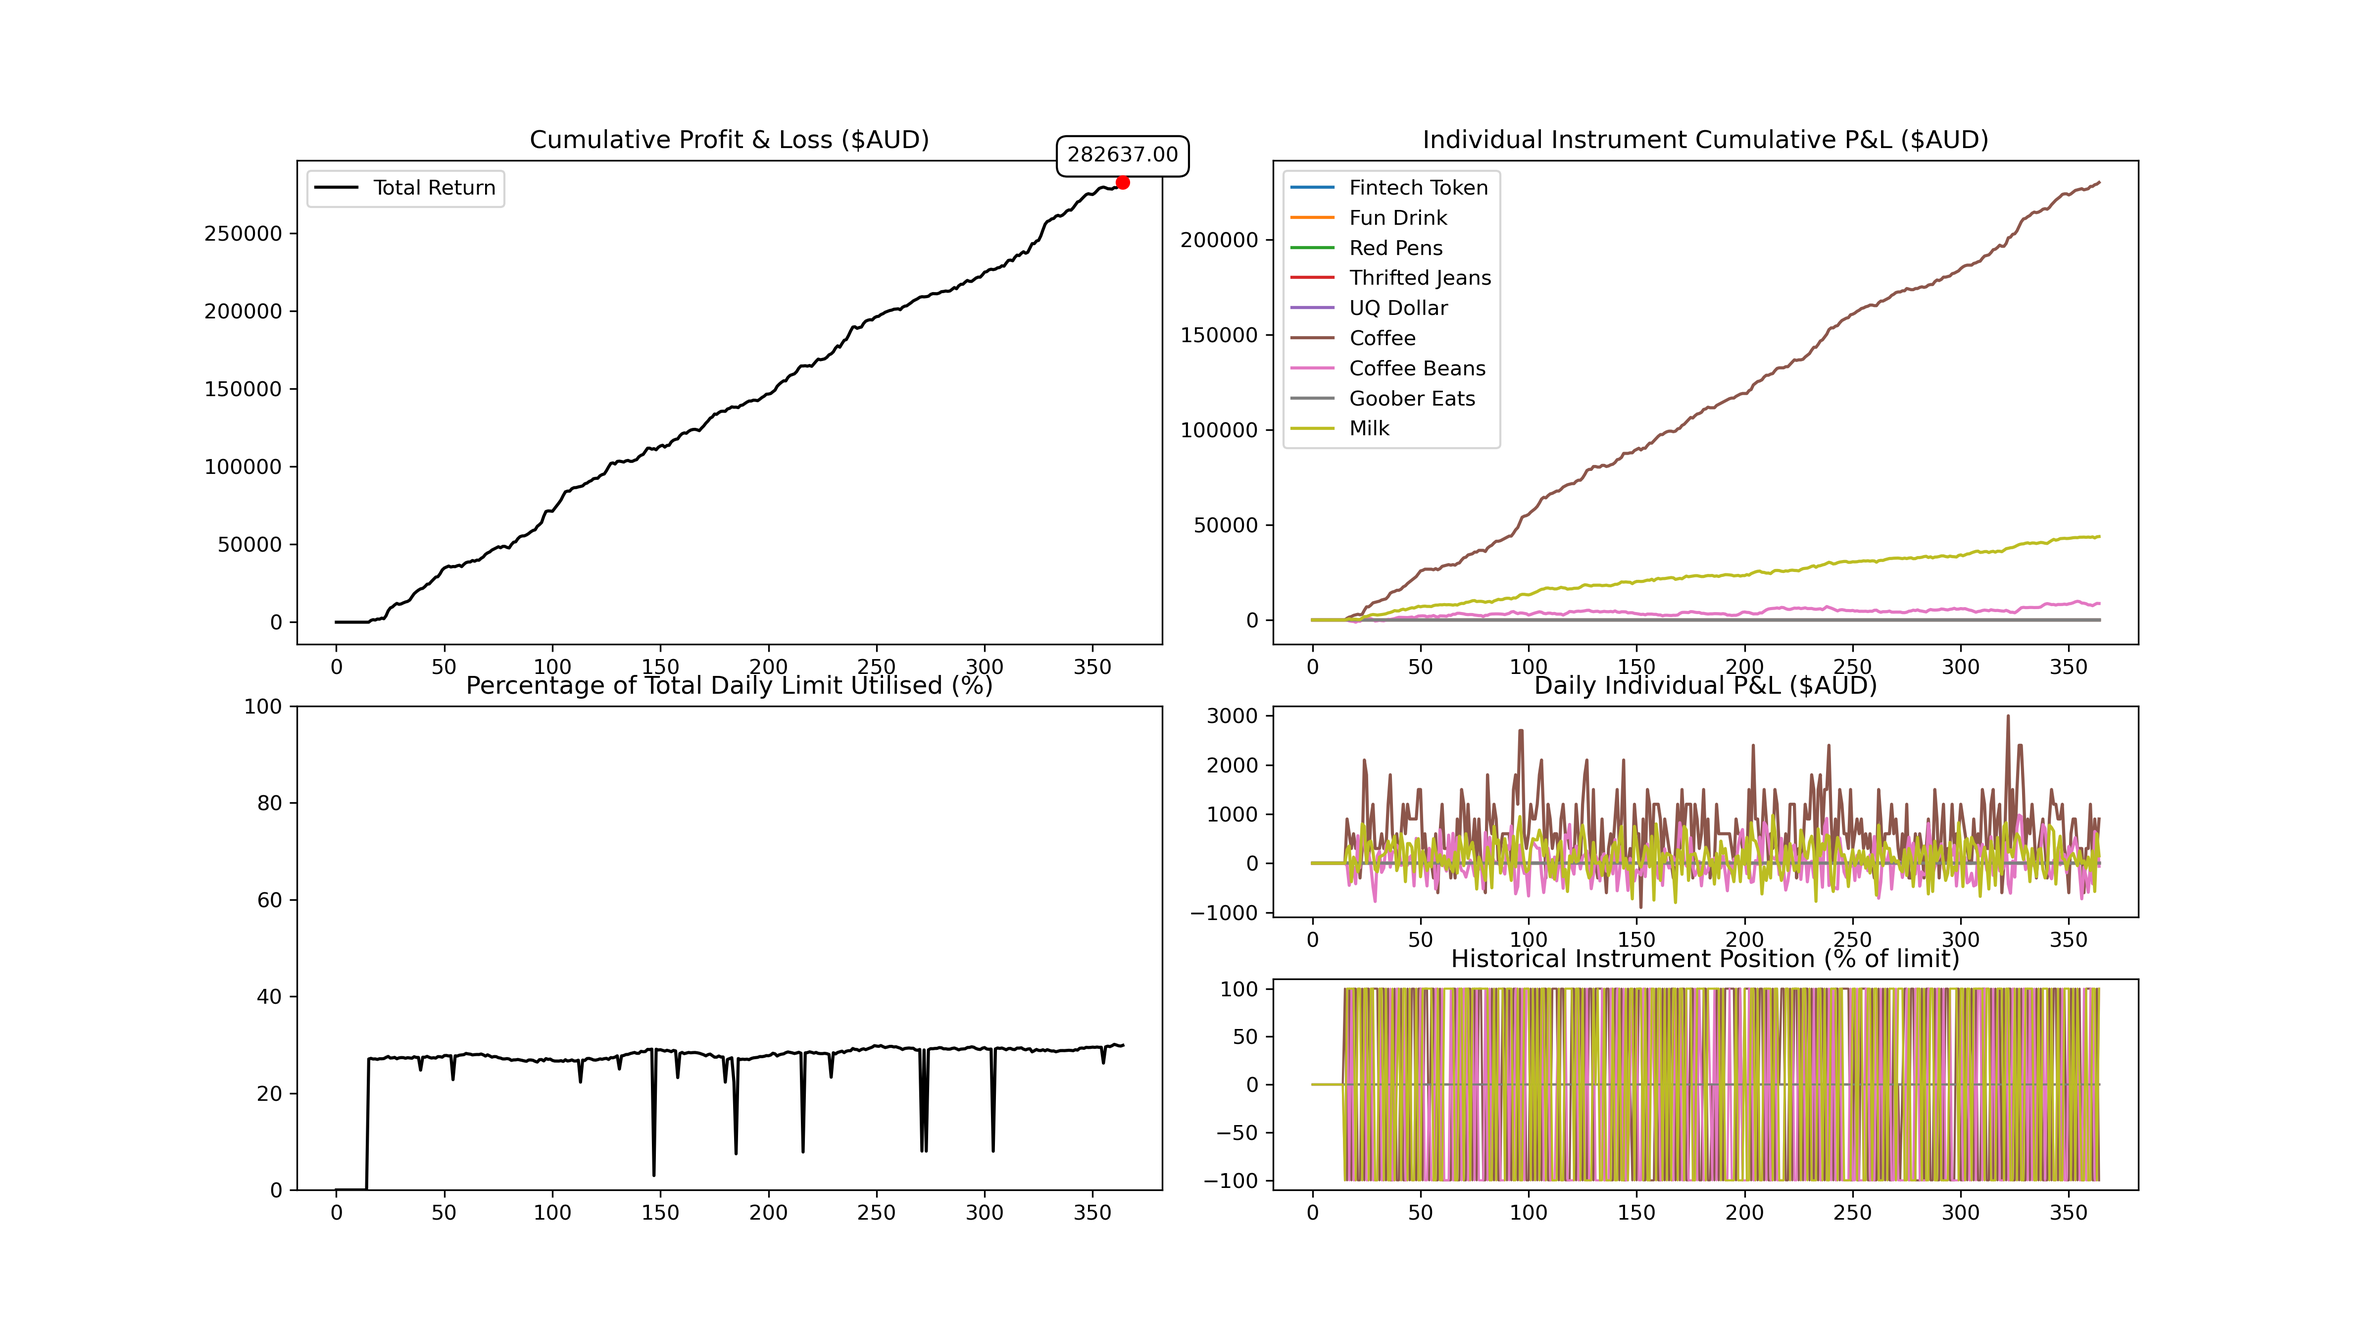
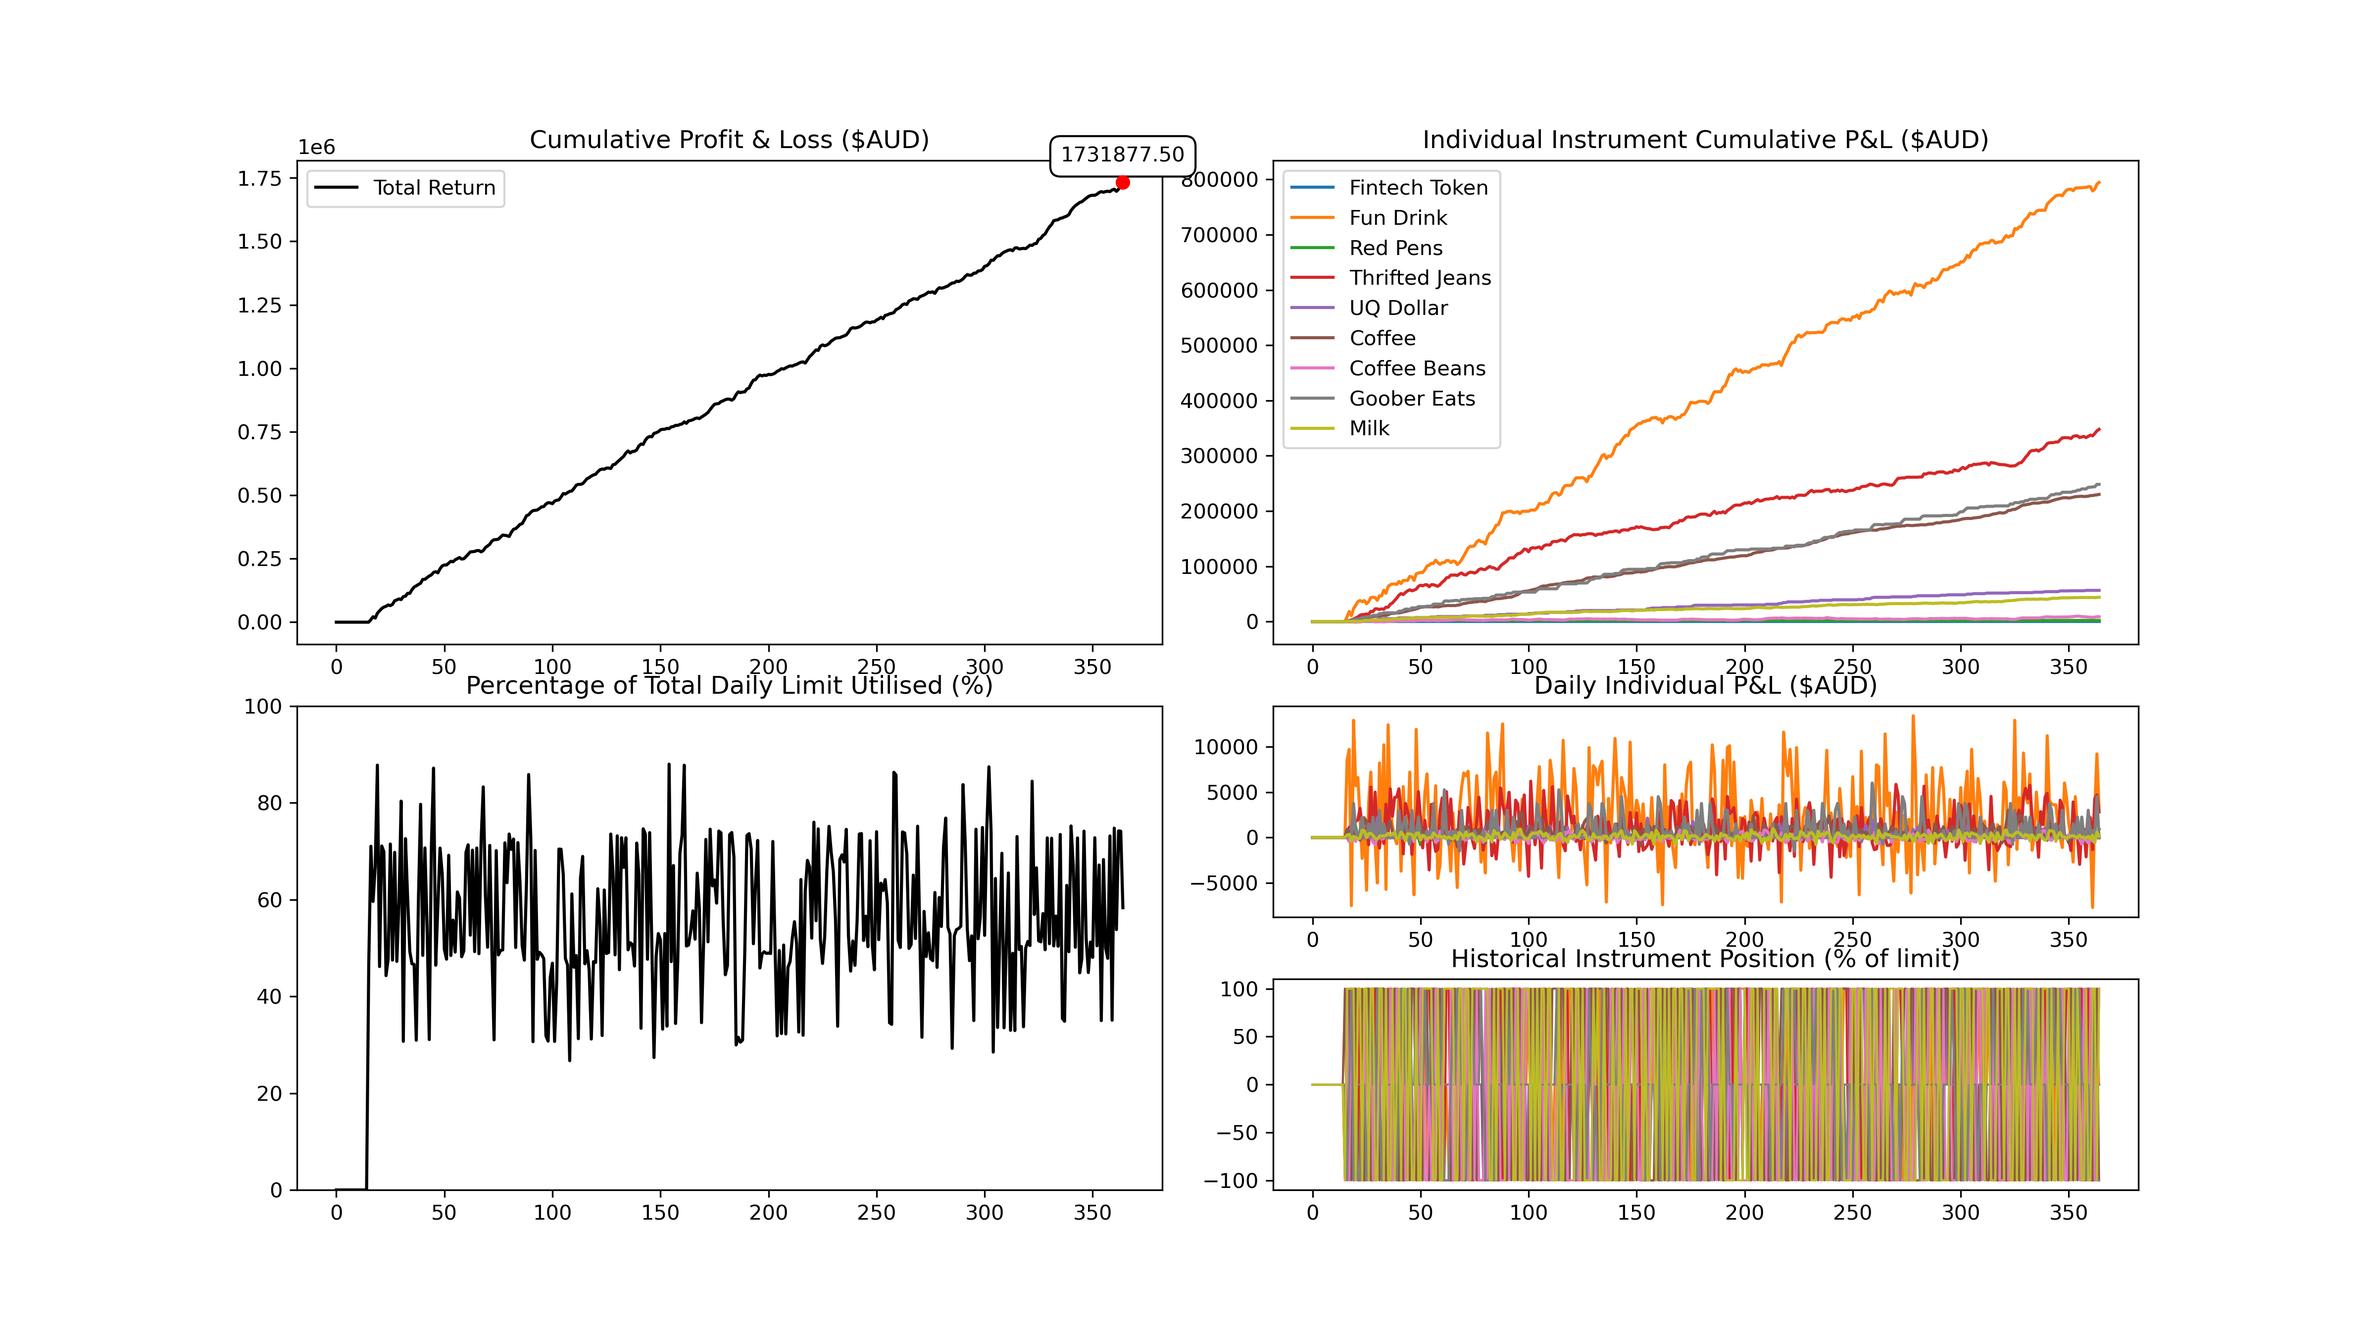
ARIMA ensemble implemented in Algorithm

diff --git a/algorithm.py b/algorithm.py
@@ -1,5 +1,5 @@
 import numpy as np
-from statsmodels.tsa.api import VAR
+from statsmodels.tsa.api import VAR, ARIMA
 from sklearn.preprocessing import StandardScaler
 import pandas as pd
 
@@ -12,7 +12,6 @@ class Algorithm():
     # FUNCTION TO SETUP ALGORITHM CLASS
     def __init__(self, positions):
         # Initialise data stores:
-        # Historical data of all instruments
         self.data = {}
         # Initialise position limits
         self.positionLimits = {}
@@ -29,91 +28,85 @@ class Algorithm():
         self.momentum_window = 5
         self.momentum_threshold = 0.02
 
-        
-        
-
     # Helper function to fetch the current price of an instrument
     def get_current_price(self, instrument):
-        # return most recent price
         return self.data[instrument][-1]
     ########################################################
 
     # HELPER METHODS
-    
-    
-    
+
+    # VAR model for Coffee Beans, Milk, Coffee
+    def apply_var_model(self, var_instruments, positionLimits, desiredPositions):
+        if self.day >= self.lookback:
+            var_data = np.array([self.data[inst] for inst in var_instruments if inst in self.data]).T
+            if len(var_data) > self.lookback:
+                diff_data = np.diff(var_data, axis=0) / var_data[:-1]
+                scaled_data = self.scaler.fit_transform(diff_data)
+
+                if self.var_model is None:
+                    self.var_model = VAR(scaled_data)
+
+                results = self.var_model.fit(self.lag_order)
+                forecast = results.forecast(scaled_data[-1:], steps=1)[0]
+
+                for i, instrument in enumerate(var_instruments):
+                    if instrument in positionLimits:
+                        if forecast[i] > self.threshold:
+                            desiredPositions[instrument] = positionLimits[instrument]  # Buy
+                        elif forecast[i] < -self.threshold:
+                            desiredPositions[instrument] = -positionLimits[instrument]  # Sell
+
+    # ARIMA model for trend-based instruments
+    def apply_arima_model(self, instrument, positionLimits, desiredPositions, p=1, d=1, q=1):
+        if self.day >= self.lookback:
+            data = np.array(self.data[instrument])
+            model = ARIMA(data, order=(p, d, q))
+            model_fit = model.fit()
+            forecast = model_fit.forecast(steps=1)[0]
+
+            current_price = self.get_current_price(instrument)
+            if forecast > current_price * (1 + self.threshold):
+                desiredPositions[instrument] = positionLimits[instrument]  # Buy
+            elif forecast < current_price * (1 - self.threshold):
+                desiredPositions[instrument] = -positionLimits[instrument]  # Sell
+
     # RETURN DESIRED POSITIONS IN DICT FORM
     def get_positions(self):
         # Get current position
         currentPositions = self.positions
         # Get position limits
         positionLimits = self.positionLimits
-        
+
         # Declare a store for desired positions
         desiredPositions = {}
-        # Loop through all the instruments you can take positions on.
+        # Initialise to hold positions for all instruments
         for instrument, positionLimit in positionLimits.items():
-            # For each instrument initilise desired position to zero
             desiredPositions[instrument] = 0
 
-        # IMPLEMENT CODE HERE TO DECIDE WHAT POSITIONS YOU WANT 
-        #######################################################################
-        # Buy thrifted jeans maximum amount
-        #desiredPositions["Thrifted Jeans"] = positionLimits["Thrifted Jeans"]
-        
-        # Coffee Milk and Beans VAR model
-        if self.day >= self.lookback:
-            var_data = np.array([self.data[inst] for inst in self.var_instruments if inst in self.data]).T
-            if len(var_data) > self.lookback:
-                diff_data = np.diff(var_data, axis=0) / var_data[:-1]
-                scaled_data = self.scaler.fit_transform(diff_data)
-                
-                if self.var_model is None:
-                    self.var_model = VAR(scaled_data)
-                
-                results = self.var_model.fit(self.lag_order)
-                forecast = results.forecast(scaled_data[-1:], steps=1)[0]
-                
-                for i, instrument in enumerate(self.var_instruments):
-                    if instrument in positionLimits:
-                        if forecast[i] > self.threshold:
-                            desiredPositions[instrument] = positionLimits[instrument]  # Buy
-                        elif forecast[i] < -self.threshold:
-                            desiredPositions[instrument] = -positionLimits[instrument]  # Sell
-        
-        #######################################################################
-        # Other strategies
-        # desiredPositions["UQ Dollar"] = self.get_uq_dollar_position(currentPositions["UQ Dollar"], positionLimits["UQ Dollar"])
-        
-        # desiredPositions["Thrifted Jeans"] = positionLimits["Thrifted Jeans"]
-        # jeans_df = pd.DataFrame(self.data["Thrifted Jeans"])
-        # jeans_df['EMA5'] = jeans_df[0].ewm(span=4, adjust=False).mean()
-        # # Buy if the price is above the 5 day EMA
-        # price = self.data['Thrifted Jeans'][-1]
-        # ema = jeans_df['EMA5'].iloc[-1]
-        # if price > ema:
-        #     desiredPositions["Thrifted Jeans"] = -positionLimits["Thrifted Jeans"]
-        # else:
-        #     desiredPositions["Thrifted Jeans"] = positionLimits["Thrifted Jeans"]
+        # Apply VAR Model for Coffee Beans, Milk, Coffee
+        self.apply_var_model(self.var_instruments, positionLimits, desiredPositions)
 
-        # desiredPositions["Red Pens"] = self.get_red_pens_position(currentPositions["Red Pens"], positionLimits["Red Pens"])
+        # Apply ARIMA for trending instruments (Thrifted Jeans, Red Pens, Goober Eats, UQ Dollar, Fun Drink)
+        self.apply_arima_model("Thrifted Jeans", positionLimits, desiredPositions)
+        self.apply_arima_model("Red Pens", positionLimits, desiredPositions)
+        self.apply_arima_model("Goober Eats", positionLimits, desiredPositions)
+        self.apply_arima_model("UQ Dollar", positionLimits, desiredPositions)
+        self.apply_arima_model("Fun Drink", positionLimits, desiredPositions)
 
-        #######################################################################
-        # Return the desired positions
         return desiredPositions
-    
-    def get_uq_dollar_position(self, currentPosition, limit):
 
+    #######################################################################
+
+    def get_uq_dollar_position(self, currentPosition, limit):
         avg = sum(self.data["UQ Dollar"][-4:]) / 4
         price = self.get_current_price("UQ Dollar")
         diff = avg - price
         boundary = max(self.data["UQ Dollar"]) - avg
-        print(f"boundary: {boundary}")
 
         if diff > 0.15:
-            delta = limit * 2 # int(np.exp(diff / boundary * 2) * limit)
+            delta = limit * 2
         elif diff < -0.15:
-            delta = -2 * limit # int(np.exp(abs(diff) / boundary * 2) * limit)
+            delta = -2 * limit
         else:
             delta = 0
 
@@ -127,28 +120,9 @@ class Algorithm():
         print(f"OLD: {currentPosition}, NEW: {desiredPosition}")
         
     def get_red_pens_position(self, currentPosition, limit):
-
-        # avg = self.penData.rolling(window=10, min_periods=1, on="Price").mean().at[self.day, "Price"]
-        # price = self.penData.at[self.day, "Price"]
         avg = sum(self.data["Red Pens"][-10:]) / 10
         price = self.get_current_price("Red Pens")
 
-        # Easy cases, these are great deals
-        # if price < 2.19:
-        #     desiredPosition = limit
-        # elif price > 2.46:
-        #     desiredPosition = -1 * limit
-        # # Going up the slopes, if we for some reason haven't bought
-        # elif avg > 2.23 and price > 2.24 and currentPosition < limit:
-        #     desiredPosition = limit
-        # # Going down the slopes, if we for some reason haven't sold
-        # elif avg < 4.45 and price < 2.44 and currentPosition > -1 * limit:
-        #     desiredPosition = -1 * limit
-        # # If we're in the flat sections
-        # elif avg < 2.23 and price < 2.2 and currentPosition < 0.9 * limit:
-        #     desiredPosition = 0.95 * limit
-        # elif avg < 2.23 and price > 2.21 and currentPosition > 0.9 * limit:
-        #     desiredPosition = 0.85 * limit
         if price < 2.2:
             desiredPosition = limit
         elif price > 2.45:

diff --git a/thingo.py b/thingo.py
@@ -1,0 +1,161 @@
+import numpy as np
+from statsmodels.tsa.api import VAR
+from sklearn.preprocessing import StandardScaler
+import pandas as pd
+
+# Custom trading Algorithm
+class Algorithm():
+
+    ########################################################
+    # NO EDITS REQUIRED TO THESE FUNCTIONS
+    ########################################################
+    # FUNCTION TO SETUP ALGORITHM CLASS
+    def __init__(self, positions):
+        # Initialise data stores:
+        # Historical data of all instruments
+        self.data = {}
+        # Initialise position limits
+        self.positionLimits = {}
+        # Initialise the current day as 0
+        self.day = 0
+        # Initialise the current positions
+        self.positions = positions
+        self.var_model = None
+        self.scaler = StandardScaler()
+        self.lookback = 15
+        self.threshold = 0.01
+        self.lag_order = 1
+        self.var_instruments = ['Coffee Beans', 'Milk', 'Coffee']
+        self.momentum_window = 5
+        self.momentum_threshold = 0.02
+
+        
+        
+
+    # Helper function to fetch the current price of an instrument
+    def get_current_price(self, instrument):
+        # return most recent price
+        return self.data[instrument][-1]
+    ########################################################
+
+    # HELPER METHODS
+    
+    
+    
+    # RETURN DESIRED POSITIONS IN DICT FORM
+    def get_positions(self):
+        # Get current position
+        currentPositions = self.positions
+        # Get position limits
+        positionLimits = self.positionLimits
+        
+        # Declare a store for desired positions
+        desiredPositions = {}
+        # Loop through all the instruments you can take positions on.
+        for instrument, positionLimit in positionLimits.items():
+            # For each instrument initilise desired position to zero
+            desiredPositions[instrument] = 0
+
+        # IMPLEMENT CODE HERE TO DECIDE WHAT POSITIONS YOU WANT 
+        #######################################################################
+        # Buy thrifted jeans maximum amount
+        #desiredPositions["Thrifted Jeans"] = positionLimits["Thrifted Jeans"]
+        
+        # Coffee Milk and Beans VAR model
+        if self.day >= self.lookback:
+            var_data = np.array([self.data[inst] for inst in self.var_instruments if inst in self.data]).T
+            if len(var_data) > self.lookback:
+                diff_data = np.diff(var_data, axis=0) / var_data[:-1]
+                scaled_data = self.scaler.fit_transform(diff_data)
+                
+                if self.var_model is None:
+                    self.var_model = VAR(scaled_data)
+                
+                results = self.var_model.fit(self.lag_order)
+                forecast = results.forecast(scaled_data[-1:], steps=1)[0]
+                
+                for i, instrument in enumerate(self.var_instruments):
+                    if instrument in positionLimits:
+                        if forecast[i] > self.threshold:
+                            desiredPositions[instrument] = positionLimits[instrument]  # Buy
+                        elif forecast[i] < -self.threshold:
+                            desiredPositions[instrument] = -positionLimits[instrument]  # Sell
+        
+        #######################################################################
+        # Other strategies
+        # desiredPositions["UQ Dollar"] = self.get_uq_dollar_position(currentPositions["UQ Dollar"], positionLimits["UQ Dollar"])
+        
+        # desiredPositions["Thrifted Jeans"] = positionLimits["Thrifted Jeans"]
+        # jeans_df = pd.DataFrame(self.data["Thrifted Jeans"])
+        # jeans_df['EMA5'] = jeans_df[0].ewm(span=4, adjust=False).mean()
+        # # Buy if the price is above the 5 day EMA
+        # price = self.data['Thrifted Jeans'][-1]
+        # ema = jeans_df['EMA5'].iloc[-1]
+        # if price > ema:
+        #     desiredPositions["Thrifted Jeans"] = -positionLimits["Thrifted Jeans"]
+        # else:
+        #     desiredPositions["Thrifted Jeans"] = positionLimits["Thrifted Jeans"]
+
+        # desiredPositions["Red Pens"] = self.get_red_pens_position(currentPositions["Red Pens"], positionLimits["Red Pens"])
+
+        #######################################################################
+        # Return the desired positions
+        return desiredPositions
+    
+    def get_uq_dollar_position(self, currentPosition, limit):
+
+        avg = sum(self.data["UQ Dollar"][-4:]) / 4
+        price = self.get_current_price("UQ Dollar")
+        diff = avg - price
+        boundary = max(self.data["UQ Dollar"]) - avg
+        print(f"boundary: {boundary}")
+
+        if diff > 0.15:
+            delta = limit * 2 # int(np.exp(diff / boundary * 2) * limit)
+        elif diff < -0.15:
+            delta = -2 * limit # int(np.exp(abs(diff) / boundary * 2) * limit)
+        else:
+            delta = 0
+
+        if currentPosition + delta > limit:
+            desiredPosition = limit
+        elif currentPosition + delta < -1 * limit:
+            desiredPosition = -1 * limit
+        else:
+            desiredPosition = currentPosition + delta
+
+        print(f"OLD: {currentPosition}, NEW: {desiredPosition}")
+        
+    def get_red_pens_position(self, currentPosition, limit):
+
+        # avg = self.penData.rolling(window=10, min_periods=1, on="Price").mean().at[self.day, "Price"]
+        # price = self.penData.at[self.day, "Price"]
+        avg = sum(self.data["Red Pens"][-10:]) / 10
+        price = self.get_current_price("Red Pens")
+
+        # Easy cases, these are great deals
+        # if price < 2.19:
+        #     desiredPosition = limit
+        # elif price > 2.46:
+        #     desiredPosition = -1 * limit
+        # # Going up the slopes, if we for some reason haven't bought
+        # elif avg > 2.23 and price > 2.24 and currentPosition < limit:
+        #     desiredPosition = limit
+        # # Going down the slopes, if we for some reason haven't sold
+        # elif avg < 4.45 and price < 2.44 and currentPosition > -1 * limit:
+        #     desiredPosition = -1 * limit
+        # # If we're in the flat sections
+        # elif avg < 2.23 and price < 2.2 and currentPosition < 0.9 * limit:
+        #     desiredPosition = 0.95 * limit
+        # elif avg < 2.23 and price > 2.21 and currentPosition > 0.9 * limit:
+        #     desiredPosition = 0.85 * limit
+        if price < 2.2:
+            desiredPosition = limit
+        elif price > 2.45:
+            desiredPosition = -1 * limit
+        else:
+            desiredPosition = currentPosition
+
+        print(f"Old position: {currentPosition}, new position: {desiredPosition}")
+
+        return desiredPosition
